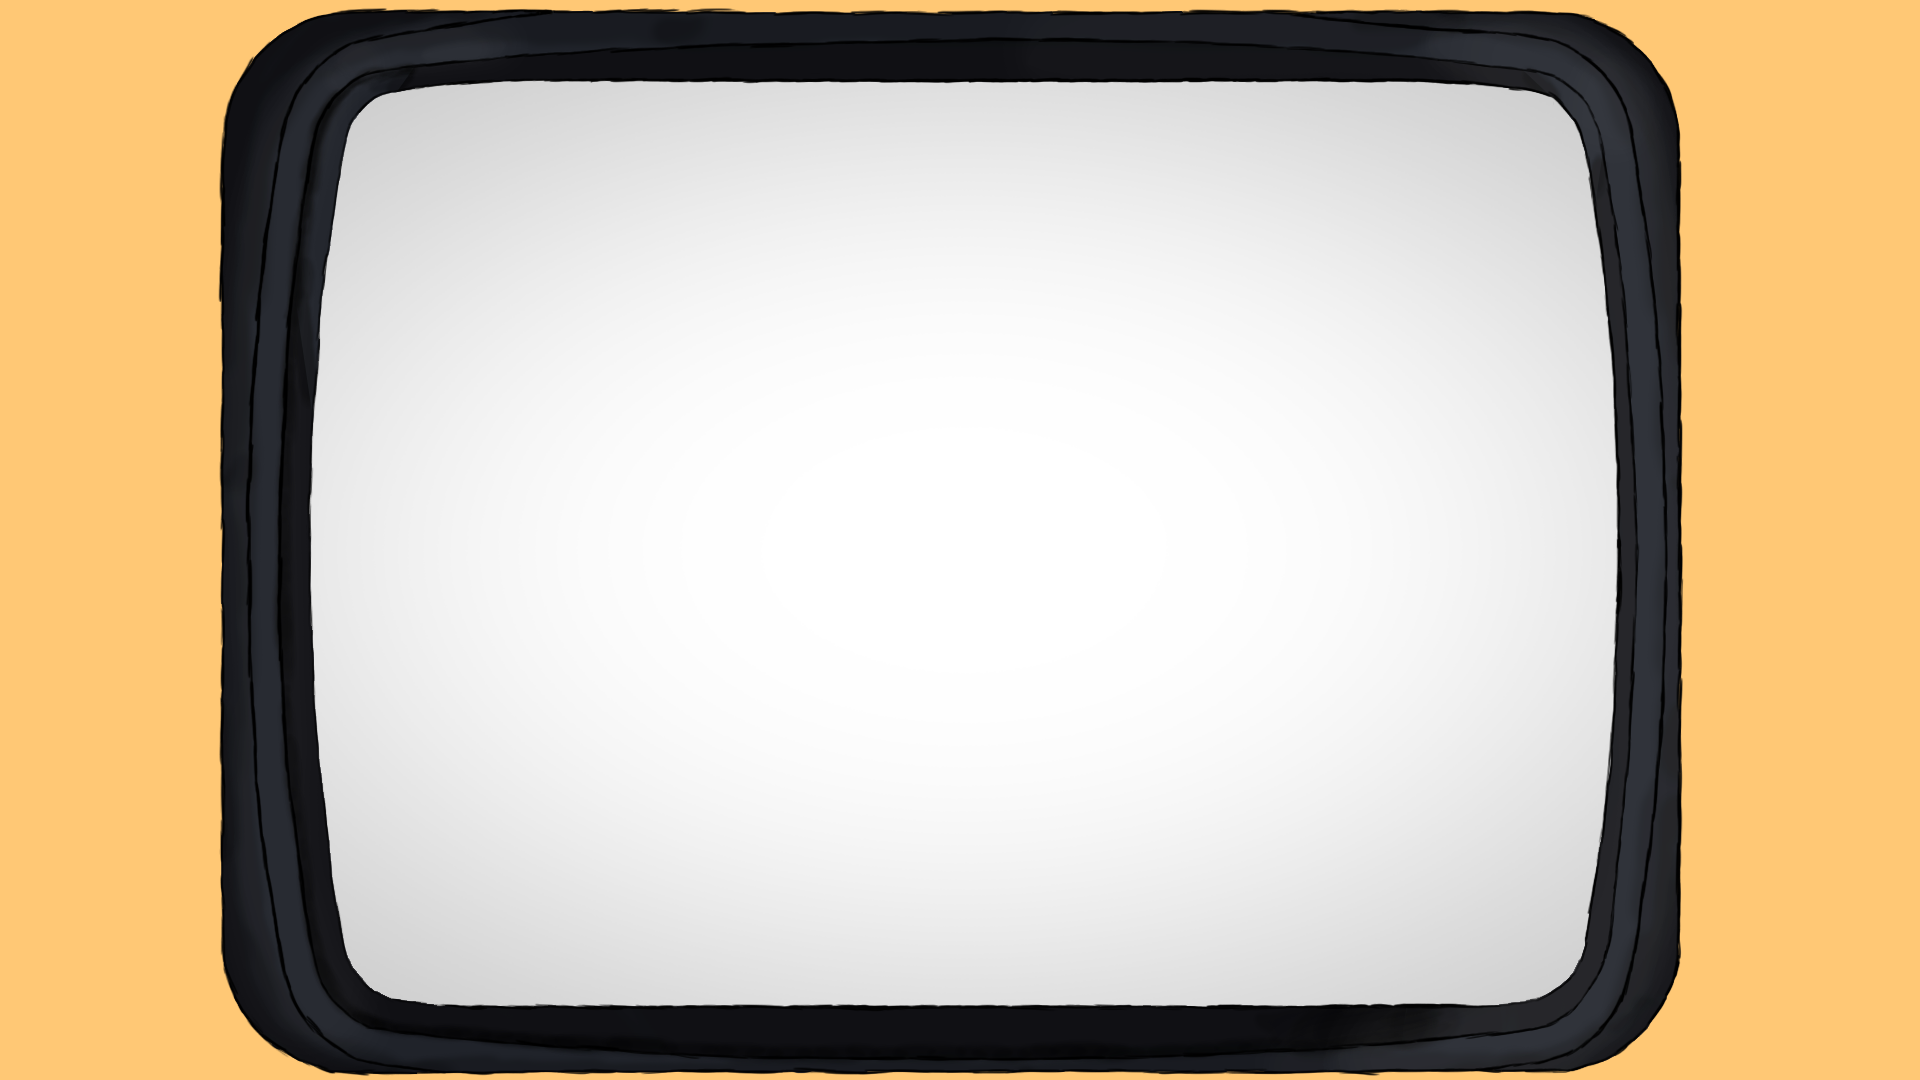
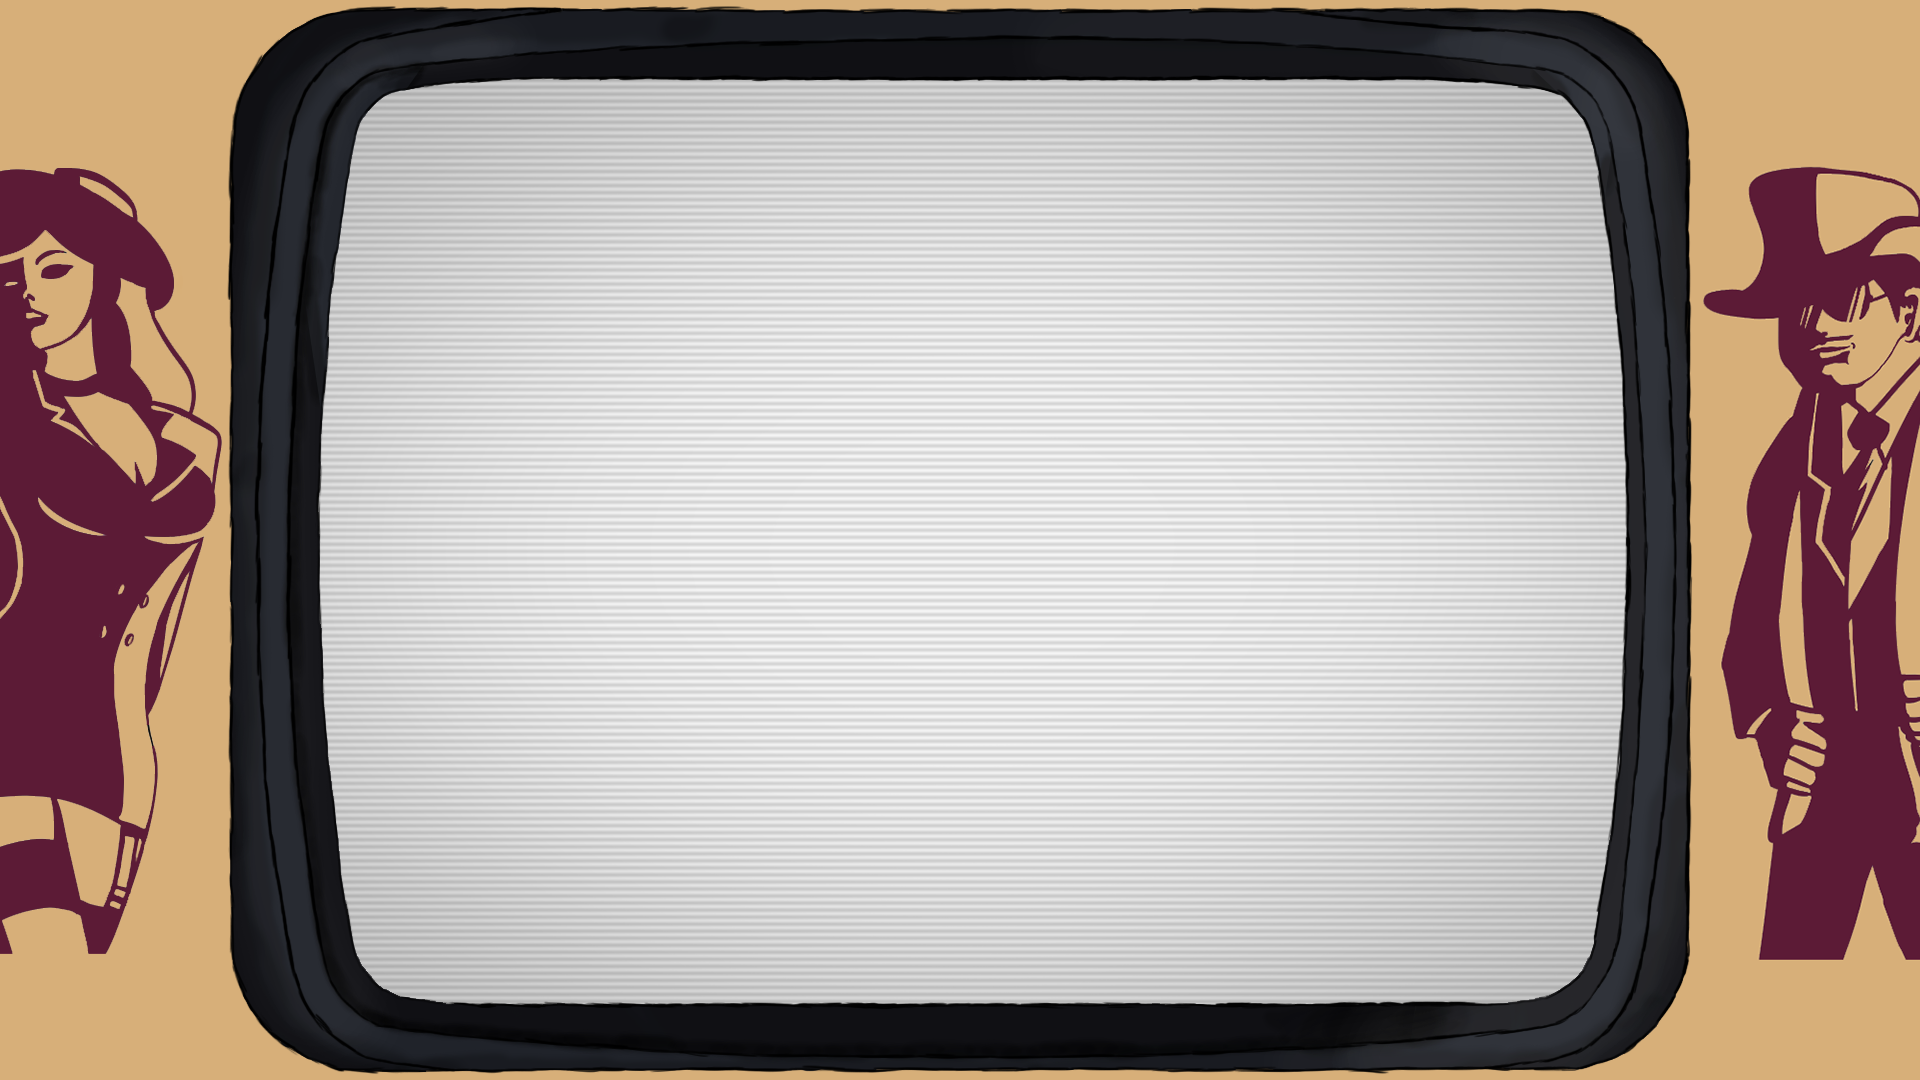
Layers and new border

diff --git a/Game/GXPEngine/GXPEngine/TopWaveBuilder.cs b/Game/GXPEngine/GXPEngine/TopWaveBuilder.cs
@@ -47,7 +47,7 @@ public class TopWaveBuilder
 
     private void wave1()
     {
-        RoadBlock RB = new RoadBlock(387, -600);
+        RoadBlock RB = new RoadBlock(387);
         Warning WR = new Warning(450, 100);
         Game.main.LateAddChild(RB);
         Game.main.LateAddChild(WR);
@@ -55,7 +55,7 @@ public class TopWaveBuilder
 
     private void wave2()
     {
-        RoadBlock RB = new RoadBlock(603, -600);
+        RoadBlock RB = new RoadBlock(603);
         Warning WR = new Warning(670, 100);
         Game.main.LateAddChild(RB);
         Game.main.LateAddChild(WR);
@@ -63,7 +63,7 @@ public class TopWaveBuilder
 
     private void wave3()
     {
-        RoadBlock RB = new RoadBlock(821, -600);
+        RoadBlock RB = new RoadBlock(821);
         Warning WR = new Warning(890, 100);
         Game.main.LateAddChild(RB);
         Game.main.LateAddChild(WR);
@@ -71,7 +71,7 @@ public class TopWaveBuilder
 
     private void wave4()
     {
-        RoadBlock RB = new RoadBlock(1037, -600);
+        RoadBlock RB = new RoadBlock(1037);
         Warning WR = new Warning(1100, 100);
         Game.main.LateAddChild(RB);
         Game.main.LateAddChild(WR);
@@ -79,7 +79,7 @@ public class TopWaveBuilder
 
     private void wave5()
     {
-        RoadBlock RB = new RoadBlock(1247, -600);
+        RoadBlock RB = new RoadBlock(1247);
         Warning WR = new Warning(1320, 100);
         Game.main.LateAddChild(RB);
         Game.main.LateAddChild(WR);
@@ -87,9 +87,9 @@ public class TopWaveBuilder
 
     private void wave6()
     {
-        RoadBlock RB2 = new RoadBlock(1037, -600);
+        RoadBlock RB2 = new RoadBlock(1037);
         Warning WR2 = new Warning(1100, 100);
-        RoadBlock RB = new RoadBlock(1247, -600);
+        RoadBlock RB = new RoadBlock(1247);
         Warning WR = new Warning(1320, 100);
         Game.main.LateAddChild(RB);
         Game.main.LateAddChild(RB2);

diff --git a/Game/GXPEngine/GXPEngine/MyGame.cs b/Game/GXPEngine/GXPEngine/MyGame.cs
@@ -8,32 +8,44 @@ public class MyGame : Game
 	static public Player player;
 	static public WaveBuilder builder;
 	static public TopWaveBuilder topBuilder;
-
+	Border border;
+	Smoke smoke;
+	Lights lights;
+	HUD hud;
 
 	private Crosshair cs;// = new Crosshair();
 	public MyGame() : base(1920, 1080, false)
 	{
-		Border border = new Border();
+		border = new Border();
 		Background background = new Background();
+		smoke = new Smoke();
+		lights = new Lights();
 		cs = new Crosshair();
-		HUD hud = new HUD();
+		hud = new HUD();
 		player = new Player();
 		builder = new WaveBuilder();
 		builder.WaveSpawner();
 		topBuilder = new TopWaveBuilder();
         topBuilder.WaveSpawner();
+		AddChild(hud);
 		AddChild(background);
 		AddChild(border);
+		AddChild(lights);
+		AddChild(smoke);
 		AddChild(cs);
 		AddChild(player);
-		AddChild(hud);
-		SetChildIndex(cs, GetChildren().Count - 1);
+		
+
 	}
 	void Update()
     {
         cheats();
 		builder.CountDown();
-		SetChildIndex(cs, GetChildren().Count - 1);
+		SetChildIndex(smoke, GetChildren().Count - 4);
+		SetChildIndex(lights, GetChildren().Count - 3);
+		SetChildIndex(cs, GetChildren().Count - 2);
+		SetChildIndex(border, GetChildren().Count - 1);
+		SetChildIndex(hud, GetChildren().Count - 0);
 		topBuilder.Update();
 		topBuilder.CountDown();
 	}

diff --git a/Game/GXPEngine/GXPEngine/Smoke.cs b/Game/GXPEngine/GXPEngine/Smoke.cs
@@ -4,16 +4,16 @@ using System.Linq;
 using System.Text;
 using GXPEngine;
 
-class Background :Sprite
-{
+    class Smoke : Sprite
+    {
     private float roadstart;
-    private float scrollSpeed = 10f;
+    private float scrollSpeed = 7.5f;
     private float spriteScrolled;
 
-    public Background() : base(Settings.ASSET_PATH + "Art/Road.png", addCollider: false)
+    public Smoke() : base(Settings.ASSET_PATH + "Art/BackgroundSmoke.png", addCollider: false)
     {
         roadstart = this.height - 1080;
-        this.y+= scrollSpeed;
+        this.y += scrollSpeed;
     }
 
     void Update()
@@ -21,10 +21,11 @@ class Background :Sprite
         SetOrigin(-300, roadstart);
         spriteScrolled = roadstart -= scrollSpeed;
 
-        if(spriteScrolled <= -200)
+        if (spriteScrolled <= -200)
         {
             this.y = roadstart;
-            roadstart = this.height -1280;
+            roadstart = this.height - 1280;
         }
     }
 }
+

diff --git a/Game/GXPEngine/GXPEngine/Lights.cs b/Game/GXPEngine/GXPEngine/Lights.cs
@@ -4,16 +4,16 @@ using System.Linq;
 using System.Text;
 using GXPEngine;
 
-class Background :Sprite
+class Lights : Sprite
 {
     private float roadstart;
     private float scrollSpeed = 10f;
     private float spriteScrolled;
 
-    public Background() : base(Settings.ASSET_PATH + "Art/Road.png", addCollider: false)
+    public Lights() : base(Settings.ASSET_PATH + "Art/BackgroundLight.png", addCollider: false)
     {
         roadstart = this.height - 1080;
-        this.y+= scrollSpeed;
+        this.y += scrollSpeed;
     }
 
     void Update()
@@ -21,10 +21,10 @@ class Background :Sprite
         SetOrigin(-300, roadstart);
         spriteScrolled = roadstart -= scrollSpeed;
 
-        if(spriteScrolled <= -200)
+        if (spriteScrolled <= -200)
         {
             this.y = roadstart;
-            roadstart = this.height -1280;
+            roadstart = this.height - 1280;
         }
     }
 }

diff --git a/Game/GXPEngine/GXPEngine/RoadBlock.cs b/Game/GXPEngine/GXPEngine/RoadBlock.cs
@@ -6,14 +6,14 @@ using GXPEngine;
 
     public class RoadBlock : Sprite
     {
-        float speed = 3f;
+        float speed = 10f;
         static public float blockDamage = 30f;
 
 
-        public RoadBlock(float posX, float posY) : base(Settings.ASSET_PATH + "Art/SpikeTrap.png")
+        public RoadBlock(float posX) : base(Settings.ASSET_PATH + "Art/SpikeTrap.png")
         {
         this.x = posX;
-        this.y = posY;
+        this.y = - 1000;
     }
 
         void Update()
@@ -31,7 +31,7 @@ using GXPEngine;
 
     void movement()
         {
-        this.y+= 4f;
+        this.y+= speed;
         }
 
 
